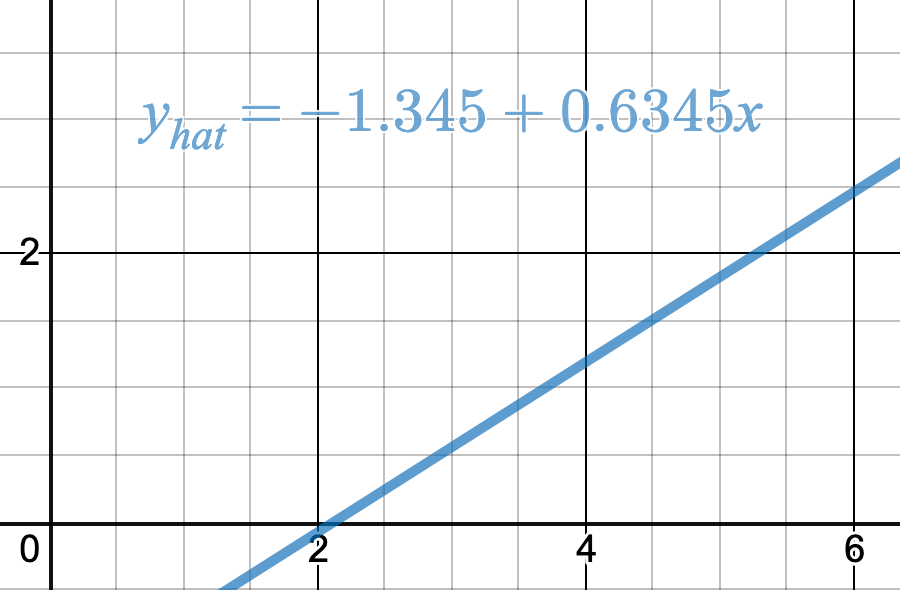
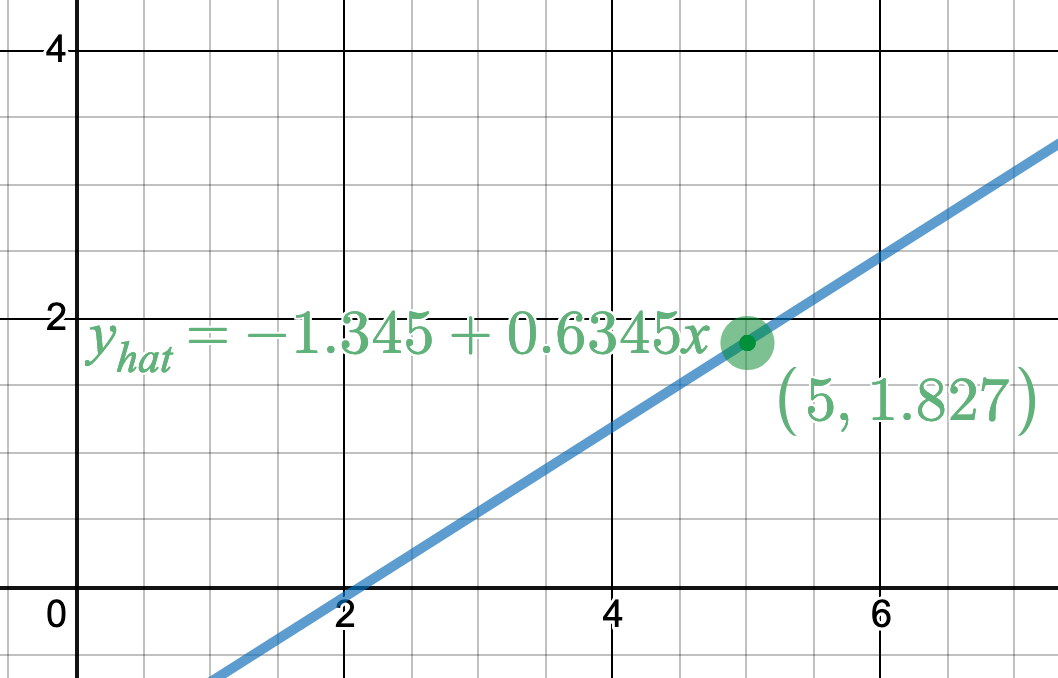
Update Graph and Image

Changed region(s): [[0.0, 0.0, 1.0, 1.0]]

diff --git a/math/view/index.html b/math/view/index.html
@@ -184,7 +184,7 @@
                 title:"Parametric Tangent Line"
             },
             "leastsquares":{
-                url: "https://www.desmos.com/calculator/jeyeghkvzq",
+                url: "https://www.desmos.com/calculator/ytjgw3ssjw",
                 title: "Least-Squares Regression"
             }
         }
